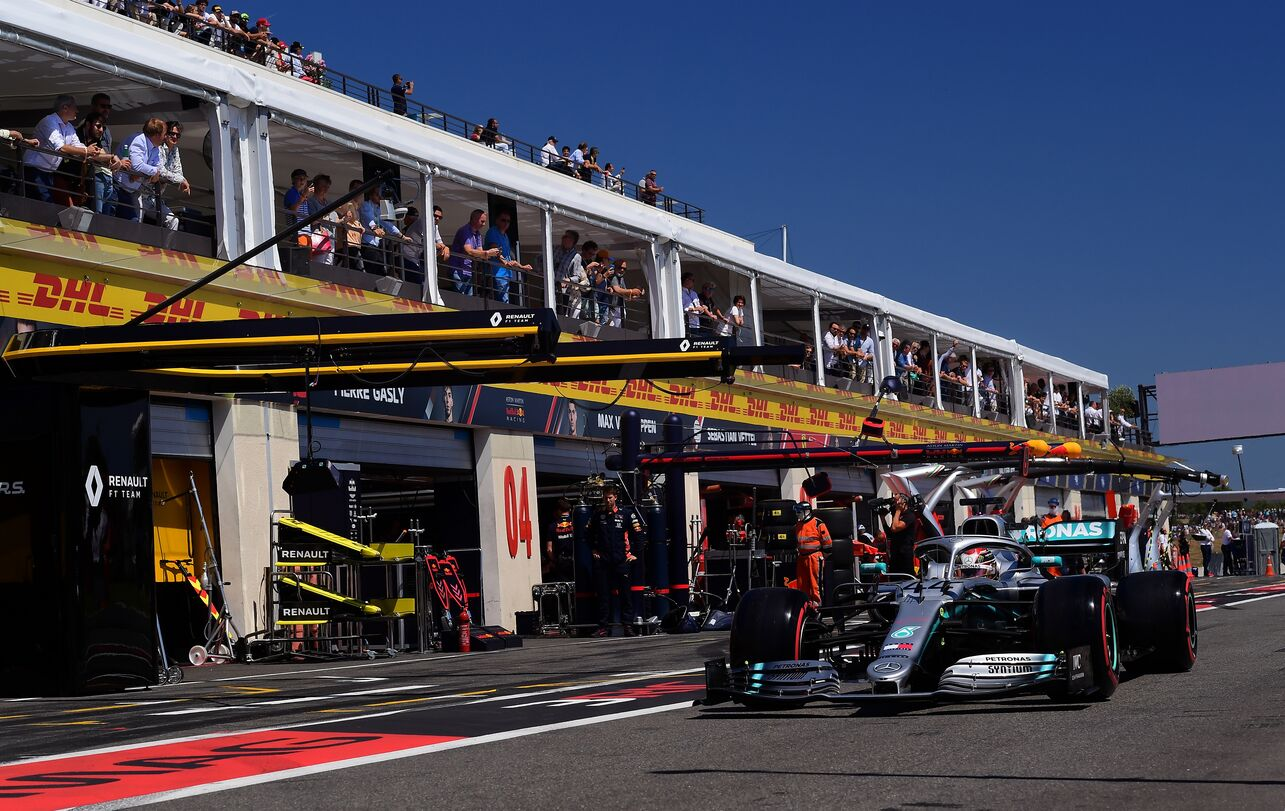
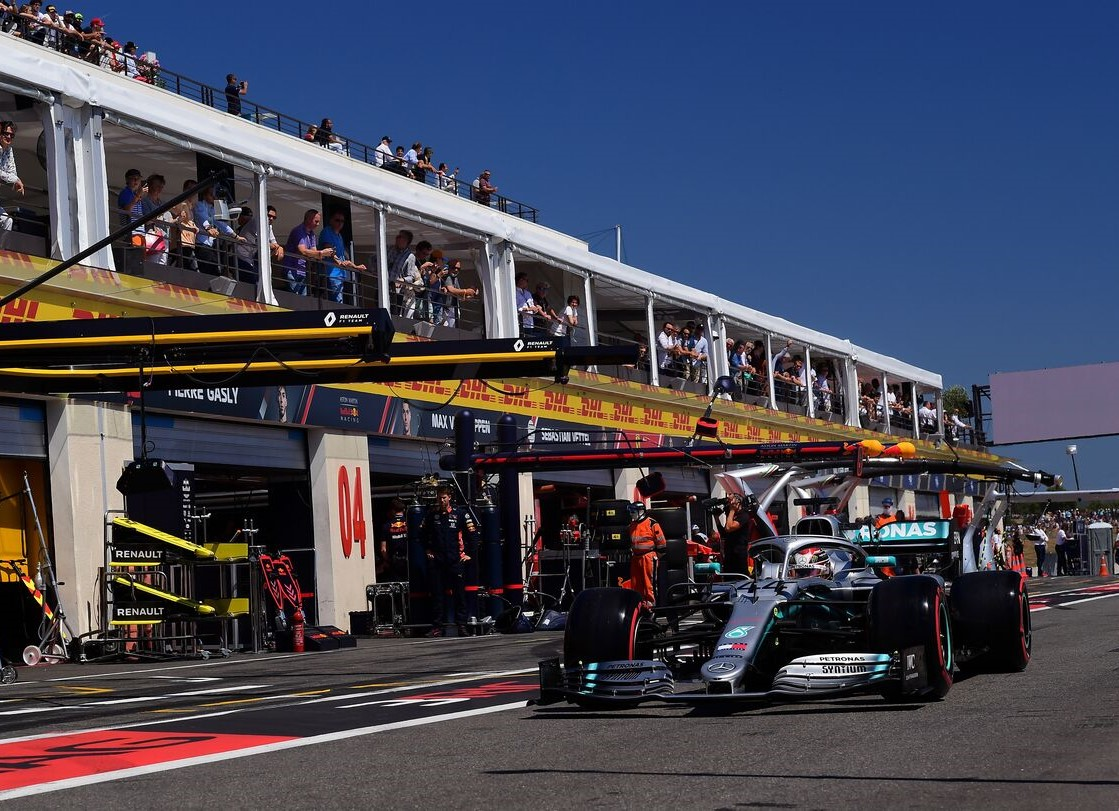
imgupdates

diff --git a/client/views/index.html b/client/views/index.html
@@ -3,9 +3,27 @@
     <head>
         <title>The Paddock</title>
         <style>
+            h1{  
+            position: absolute;
+            top: 0px;
+            font-family:Verdana, Geneva, Tahoma, sans-serif;
+            font-size: 250%;;
+            color: #fa0000;
+            background-image: -webkit-linear-gradient(105deg, #fa0000 12%,#464444 100%,#ff1212 50%);
+            background-clip: text;
+            -webkit-background-clip: text;
+            -webkit-text-fill-color: transparent;
+
+            }
+
+            img{
+                position: absolute;
+                top: 100px;
+            }
+            
             body {
-                background-color:rgb(38, 36, 36);
-                color: white;
+                background-color:rgb(255, 255, 255);
+                color: rgb(0, 0, 0);
             }
         </style>
     </head>
@@ -14,7 +32,8 @@
 
     </body>
     <body>
-        <img src="http://localhost:1337/img/Paddock.jpeg" alt="bruh" style="vertical-align: bottom;">
-
+        <img src="http://localhost:1337/img/paddock.jpg" alt="bruh">
+            
+            
     </body>
 </html>
